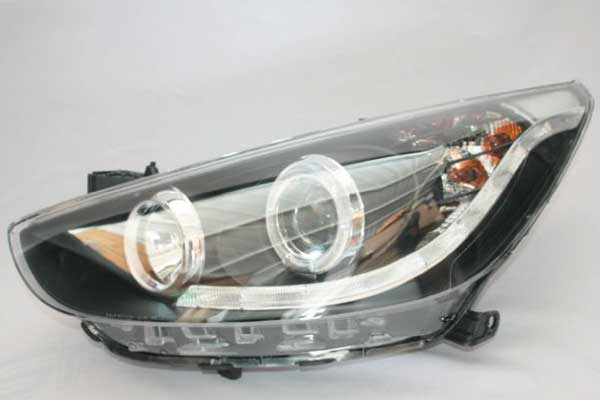
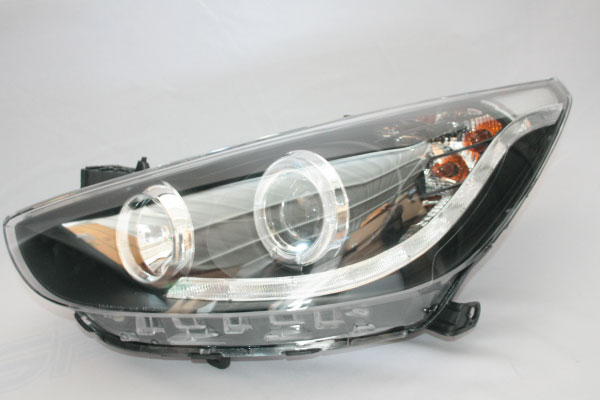
changes

diff --git a/index.html b/index.html
@@ -149,15 +149,15 @@
             <div ng-repeat="model in mod.modelo">
               <div class="list">
                 <div class="item" ng-repeat="rep in model.repuestos">
-                  <h2 ng-click="toggleCustom()">{{rep.nombre}}</h2><span class="badge badge-assertive">{{rep.cantidad}}</span>
+                  <a ng-click="toggleCustom()"><h2>{{rep.nombre}}</h2><span class="badge badge-assertive">{{rep.cantidad}}</span></a>
                   <div ng-repeat="art in rep.articulos">
                     
                     <div ng-hide="custom">
                     <br />
                       <div ng-repeat="ima in art.imagenes">
                         <img ng-src="{{ima.image}}" alt="" />
-                        <div><h2><i class="icon ion-checkmark-circled balanced"></i> {{art.nombre}}</h2></div>
-                        <div><h2><i class="icon ion-settings balanced"></i> {{art.material}}</h2></div>
+                        <div><h2><i class="icon ion-checkmark-circled positive"></i> {{art.nombre}}</h2></div>
+                        <div><h2><i class="icon ion-settings dark"></i> Marerial: {{art.material}}</h2></div>
                     <br />
                       </div>
                     </div>
@@ -192,16 +192,15 @@
 
     <script id="templates/contact.html" type="text/ng-template">
       <ion-view>
-        <ion-content class="padding" ng-controller="MyController">
+        <ion-content ng-controller="MyController" class="opensans">
 
-        <div class="icon-semaforo"><img src="img/semaforo-icon.png" alt="" width="150" heigth="50" /></div>
+        <div class="icon-semaforo"><img src="img/img-contact.jpg" alt="" /></div>
 
-        <h2 class="titlecontact"><i class="icon ion-gear-b"></i> Lujos y Accesorios El Semaforo</h2>
         <br />
         
         <div class="row">
           <div class="col col-10"><i class="icon ion-location icon-contact"></i></div>
-          <div class="col">Calle 65 N° 27a - 35 Barrio Siete de Agosto</div>
+          <div class="col">Calle 65 N° 27a - 35 <br />Barrio Siete de Agosto</div>
         </div>
 
         <div class="row">

diff --git a/js/controllers.js b/js/controllers.js
@@ -11,9 +11,9 @@
           "modelo": [
             {"nombre":"Aveo", "tab":"aveo", "modelo":"1990-2014", "repuestos":
               [
-                {"nombre":"Espejos", "cantidad":"8", "articulos":[{"nombre":"Espejo Marca 01","material":"Metal-Plastico","imagenes":[{"image":"img/farola.jpg"},{"image":"img/farola.jpg"}]}]},
+                {"nombre":"Farolas", "cantidad":"8", "articulos":[{"nombre":"Farola Marca 01","material":"Metal-Plastico","imagenes":[{"image":"img/farola.jpg"},{"image":"img/farola2.jpg"},{"image":"img/farola3.jpg"}]}]},
                 {"nombre":"Exploradoras", "cantidad":"4"},
-                {"nombre":"Farolas", "cantidad":"9"},
+                {"nombre":"Espejos", "cantidad":"9"},
                 {"nombre":"Sonido", "cantidad":"8"},
                 {"nombre":"Stops", "cantidad":"10"}
               ]

diff --git a/css/style.css b/css/style.css
@@ -33,7 +33,7 @@ body {
 }
 .opensans{
 	font-family: 'open_sanslight';
-	font-size: 14px;
+	font-size: 16px;
 }
 .icontact{
 	font-size: 20px;
@@ -50,16 +50,13 @@ body {
 	text-align: center;
 }
 .icon-contact{
-	font-size: 28px;
+	font-size: 32px;
 	text-align: center;
 	color: #EF002F;
 }
 
 .icon-semaforo img{
-	width: 150px;
-	margin-left:-75px;
-	left: 50%;
-	position: relative;
+	width: 100%;
 }
 .marca-nombre{
 	font-family: 'open_sanslight';
